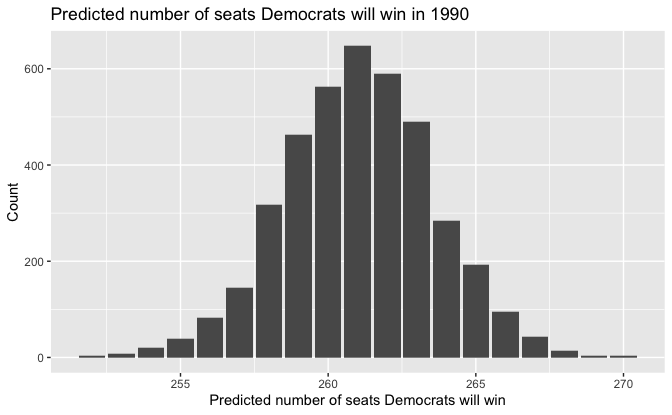
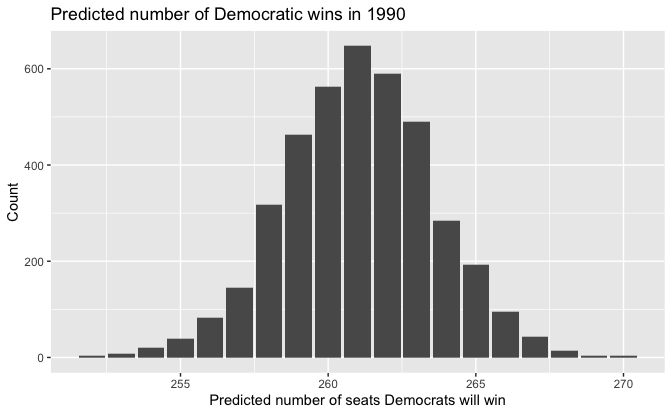
Initial commit

Changed region(s): [[0.3125, 0.0, 0.7188, 0.0578]]

diff --git a/Congress/congress_tv.md b/Congress/congress_tv.md
@@ -28,7 +28,7 @@ library(tidyverse)
 library(rstanarm)
 
 # Parameters
-  # Results of educational experiment
+  # Congressional election data
 file_congress <- here::here("Congress/data/congress.csv")
   # Party colors
 party_colors <- 
@@ -114,7 +114,12 @@ congress %>%
 set.seed(616)
 
 congress %>% 
-  slice_sample(prop = 1) %>% 
+  {
+    bind_rows(
+      filter(., inc88 != "Open"),
+      filter(., inc88 == "Open")
+    )
+  } %>% 
   ggplot(aes(v86, v88, color = inc88)) +
   geom_hline(yintercept = 0.5, color = "grey60") +
   geom_vline(xintercept = 0.5, color = "grey60") +
@@ -140,7 +145,12 @@ congress %>%
 set.seed(616)
 
 congress %>% 
-  slice_sample(prop = 1) %>% 
+  {
+    bind_rows(
+      filter(., inc88 != "Open"),
+      filter(., inc88 == "Open")
+    )
+  } %>% 
   ggplot(aes(v86_adj, v88_adj, color = inc88)) +
   geom_hline(yintercept = 0.5, color = "grey60") +
   geom_vline(xintercept = 0.5, color = "grey60") +
@@ -211,8 +221,6 @@ nrow(sims_88)
     #> [1] 4000
 
 ``` r
-set.seed(620)
-
 data_90 <-  
   congress %>% 
   transmute(
@@ -226,6 +234,8 @@ nrow(data_90)
     #> [1] 435
 
 ``` r
+set.seed(620)
+
 pred_90 <- 
   posterior_predict(fit_88, newdata = data_90) %>% 
   as_tibble()
@@ -242,50 +252,46 @@ pred_90_dems <-
   pred_90 %>% 
   mutate(across(everything(), ~ . > 0.5)) %>% 
   rowwise() %>% 
-  mutate(dems_pred = sum(c_across(everything()))) %>% 
-  pull(dems_pred)
+  mutate(pred_dems = sum(c_across(everything()))) %>% 
+  pull(pred_dems)
 ```
 
-Predicted number of seats Democrats will win in 1990.
+Predicted number of Democratic wins in 1990.
 
 ``` r
 tibble(pred_90_dems = pred_90_dems) %>% 
   ggplot(aes(pred_90_dems)) +
   geom_bar() +
   labs(
-    title = "Predicted number of seats Democrats will win in 1990",
-    x = "Predicted number of seats Democrats will win",
+    title = "Predicted number of Democratic wins in 1990",
+    x = "Predicted number of Democratic wins",
     y = "Count"
   )
 ```
 
-<img src="congress_tv_files/figure-gfm/unnamed-chunk-10-1.png" width="100%" />
+<img src="congress_tv_files/figure-gfm/unnamed-chunk-11-1.png" width="100%" />
 
 ``` r
-summary(pred_90_dems)
+cat(
+  str_glue(
+    "The mean predicted number of Democratic wins in 1990 is ",
+    "{format(mean(pred_90_dems), digits = 1, nsmall = 1)} with a standard ",
+    "deviation of {format(sd(pred_90_dems), digits = 1, nsmall = 1)}."
+  )
+)
 ```
 
-    #>    Min. 1st Qu.  Median    Mean 3rd Qu.    Max. 
-    #>     252     259     261     261     263     270
+    #> The mean predicted number of Democratic wins in 1990 is 261.0 with a standard deviation of 2.5.
+
+The actual number of Democratic wins in 1990 was 267.
 
 ``` r
-mean <- mean(pred_90_dems)
+actual_90_dems <- 267
 
-sd <- sd(pred_90_dems)
-sd
-```
-
-    #> [1] 2.55
-
-The actual number of Democratic seats won in 1990 was 267.
-
-``` r
-dems_90 <- 267
-
-z <- (dems_90 - mean) / sd
+z <- (actual_90_dems - mean(pred_90_dems)) / sd(pred_90_dems)
 z
 ```
 
     #> [1] 2.34
 
-This was 2.34 standard deviations from the predicted number of seats.
+This was 2.34 standard deviations from the predicted number of wins.
